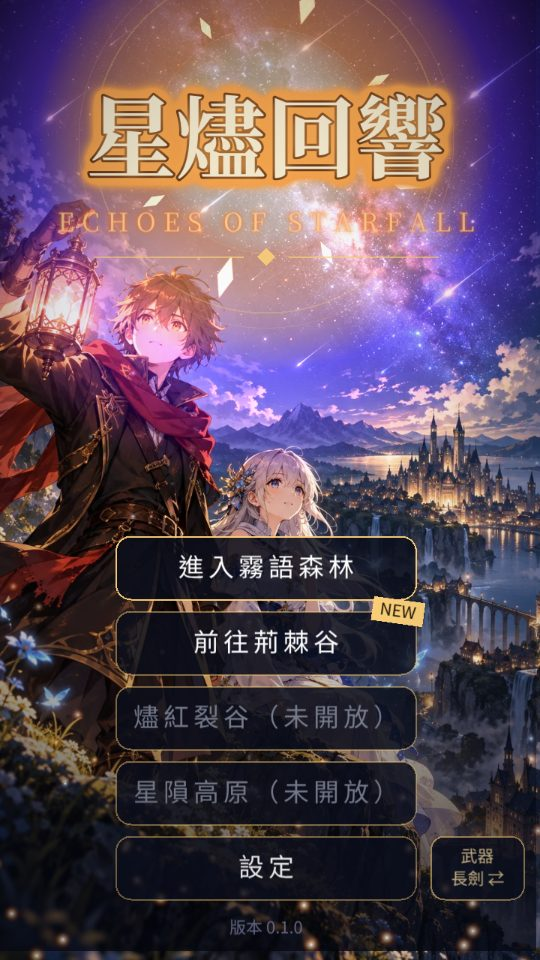
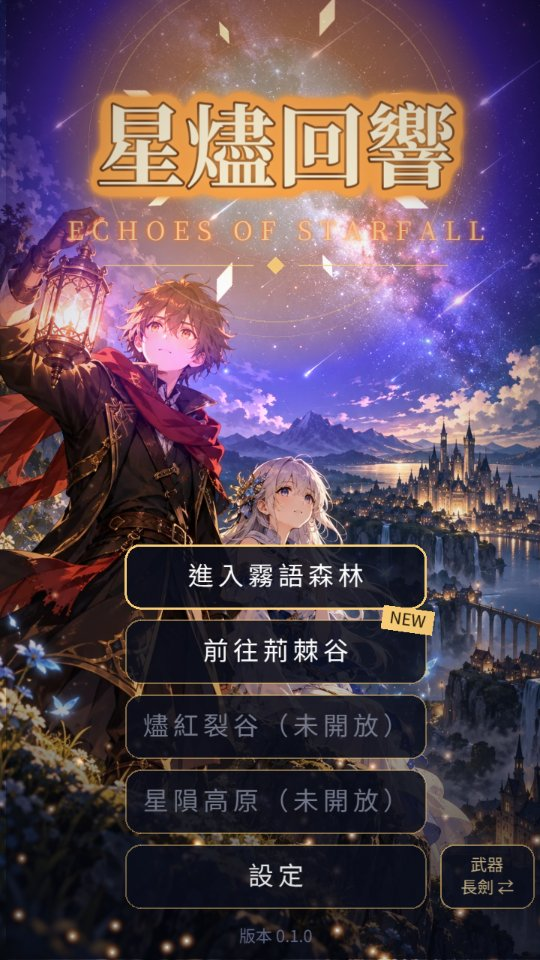
標題點未開放的地圖：開放條件直接換在那顆按鈕上、輕晃一下，1.8 秒後換回（以前在畫面中段跳一行小字，長螢幕時離按鈕很遠）；README 標題截圖重拍
Claude-Session: https://claude.ai/code/session_01DgXGTutqKErYxaMvqY2C82

diff --git a/src/game/scenes/TitleScene.ts b/src/game/scenes/TitleScene.ts
@@ -264,6 +264,7 @@ export class TitleScene extends Phaser.Scene {
     const fresh = new Set<number>(); // 第一次看到開放的地圖按鈕（第 27 輪）：金色脈動＋「NEW」
 
     // 大地圖（D-097／D-114／D-124）：第一張一開始就開；之後每張要先打倒前一張的 Boss 一次。等級、行囊、技能點共用
+    const locked = new Map<number, string>(); // 第 66 輪：未開放的按鈕點了，條件直接寫在按鈕上
     const last = lastMap();
     let lastIdx = 0; // 第 63 輪：上次玩的地圖亮金框＋▶（沒紀錄就是第一顆）
     WORLD_MAPS.forEach((m, i) => {
@@ -271,7 +272,10 @@ export class TitleScene extends Phaser.Scene {
       // 第 66 輪：走光門進去玩過的地圖不算新的（以前通關回標題，荊棘谷、燼紅裂谷都還掛著 NEW）
       if (mapOpen(m.id) && i > 0 && !seenMap(m.id) && !chapterSeen(m.id) && !bossKillsOf(m.id)) fresh.add(items.length);
       if (mapOpen(m.id)) items.push([`${i ? '前往' : '進入'}${m.name}`, () => this.go(() => this.scene.start('RtBattle', { stage: m.id, bot: '' }))]);
-      else items.push([`${m.name}（未開放）`, () => this.lockedHint(m.id)]);
+      else {
+        locked.set(items.length, m.id);
+        items.push([`${m.name}（未開放）`, () => this.lockedHint(m.id)]);
+      }
     });
     // 通關後（D-133）：可以重看通關演出
     // 舊存檔已經打倒過最後一張圖的 Boss（通關演出做出來之前）也看得到
@@ -305,7 +309,9 @@ export class TitleScene extends Phaser.Scene {
       c.on('pointerdown', (_p: Phaser.Input.Pointer, _x: number, _y: number, ev: Phaser.Types.Input.EventData) => {
         ev.stopPropagation();
         SFX.confirm();
-        fn();
+        const lid = locked.get(i);
+        if (lid) this.lockedHint(lid, c, tx, label);
+        else fn();
       });
       menu.add(c);
       if (fresh.has(i)) this.unlockPulse(c, 100 + i * 80 + 320);
@@ -364,10 +370,31 @@ export class TitleScene extends Phaser.Scene {
   }
 
   /** 荊棘谷未開放時點一下：提示開放條件 */
-  private lockedHint(id: string): void {
+  /**
+   * 點了未開放的地圖（第 66 輪）：條件直接換在那顆按鈕上、輕輕左右晃一下，1.8 秒後換回原名。
+   * 以前固定在 y 860 跳一行小字，長螢幕時離按鈕很遠、壓在主角立繪上。
+   */
+  private lockedHint(id: string, c?: Phaser.GameObjects.Container, tx?: Phaser.GameObjects.Text, label?: string): void {
     const pv = prevMap(id);
-    const tx = this.add.text(GAME_WIDTH / 2, 860, pv ? `在${pv.name}打倒${pv.boss}後開放` : '尚未開放', { fontFamily: UI_FONT, fontSize: '28px', color: '#ffd27a', backgroundColor: 'rgba(0,0,0,0.6)' }).setPadding(16, 8, 16, 8).setOrigin(0.5).setDepth(100);
-    this.tweens.add({ targets: tx, alpha: 0, delay: 1600, duration: 400, onComplete: () => tx.destroy() });
+    const msg = pv ? `在${pv.name}打倒${pv.boss}後開放` : '尚未開放';
+    if (!c || !tx || label === undefined) {
+      const t = this.add.text(GAME_WIDTH / 2, 860, msg, { fontFamily: UI_FONT, fontSize: '28px', color: '#ffd27a', backgroundColor: 'rgba(0,0,0,0.6)' }).setPadding(16, 8, 16, 8).setOrigin(0.5).setDepth(100);
+      this.tweens.add({ targets: t, alpha: 0, delay: 1600, duration: 400, onComplete: () => t.destroy() });
+      return;
+    }
+    const run = ((c.getData('lockRun') as number | undefined) ?? 0) + 1;
+    c.setData('lockRun', run);
+    tx.setText(msg).setFontSize(msg.length > 14 ? 23 : 26).setLetterSpacing(1).setColor('#ffd27a');
+    const x0 = (c.getData('x0') as number | undefined) ?? c.x;
+    c.setData('x0', x0);
+    if (!c.getData('shaking')) {
+      c.setData('shaking', true);
+      this.tweens.add({ targets: c, x: x0 + 8, duration: 50, yoyo: true, repeat: 2, ease: 'Sine.easeInOut', onComplete: () => { c.x = x0; c.setData('shaking', false); } });
+    }
+    this.time.delayedCall(1800, () => {
+      if (c.getData('lockRun') !== run || !tx.active) return;
+      tx.setText(label).setFontSize(34).setLetterSpacing(6).setColor('#7a7f90');
+    });
   }
 
   private go(fn: () => void): void {
